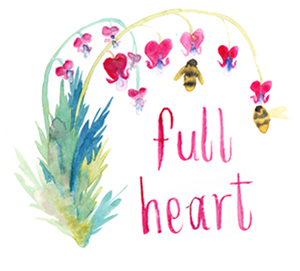
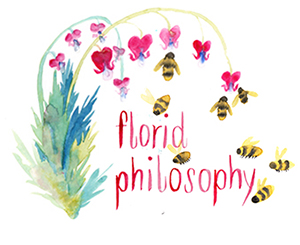
floral

diff --git a/page33.html b/page33.html
@@ -4,14 +4,12 @@ layout: default_layout
 
 <div class="content">
   <div class="o-grid-row">
-    
-    <div data-o-grid-colspan="S12 M10 Mpush2">
+    <div data-o-grid-colspan="S12 M9 Mpush3">
     	<img class="img" src="images/floridtitle.jpg" id="anchor">	
      	<img class="img" src="images/florid.jpg">
     </div>
-
-    <div data-o-grid-colspan="S12 M2 Mpull10">
-      Florid Philosophy
+    <div data-o-grid-colspan="S12 M3 Mpull9">
+      Florid Philosophy, a cute springtime floral collection that would feel very at home on a tea set, kitchenware or gardening supplies.  
     </div>
   </div>
 </div>
